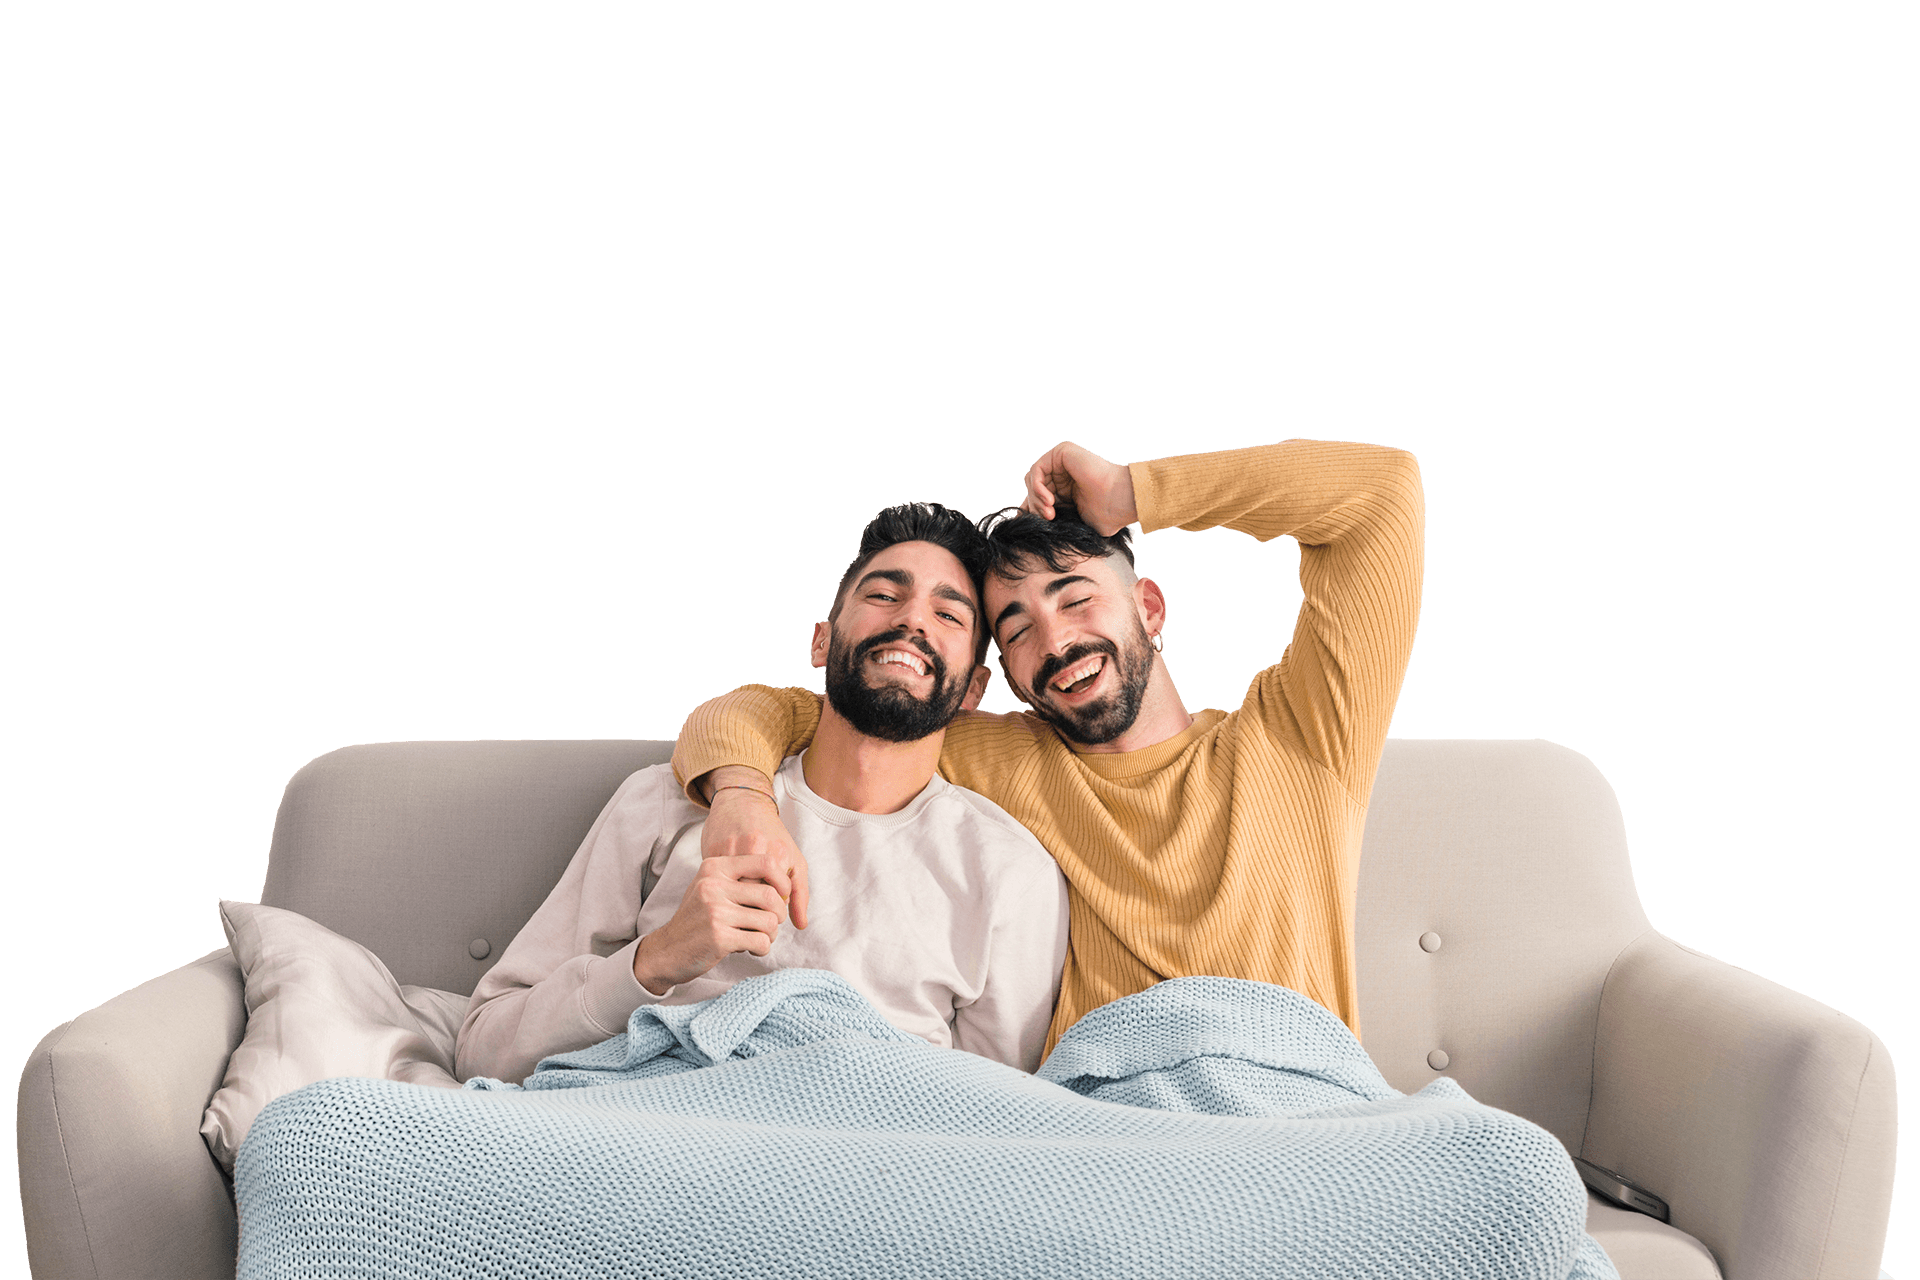
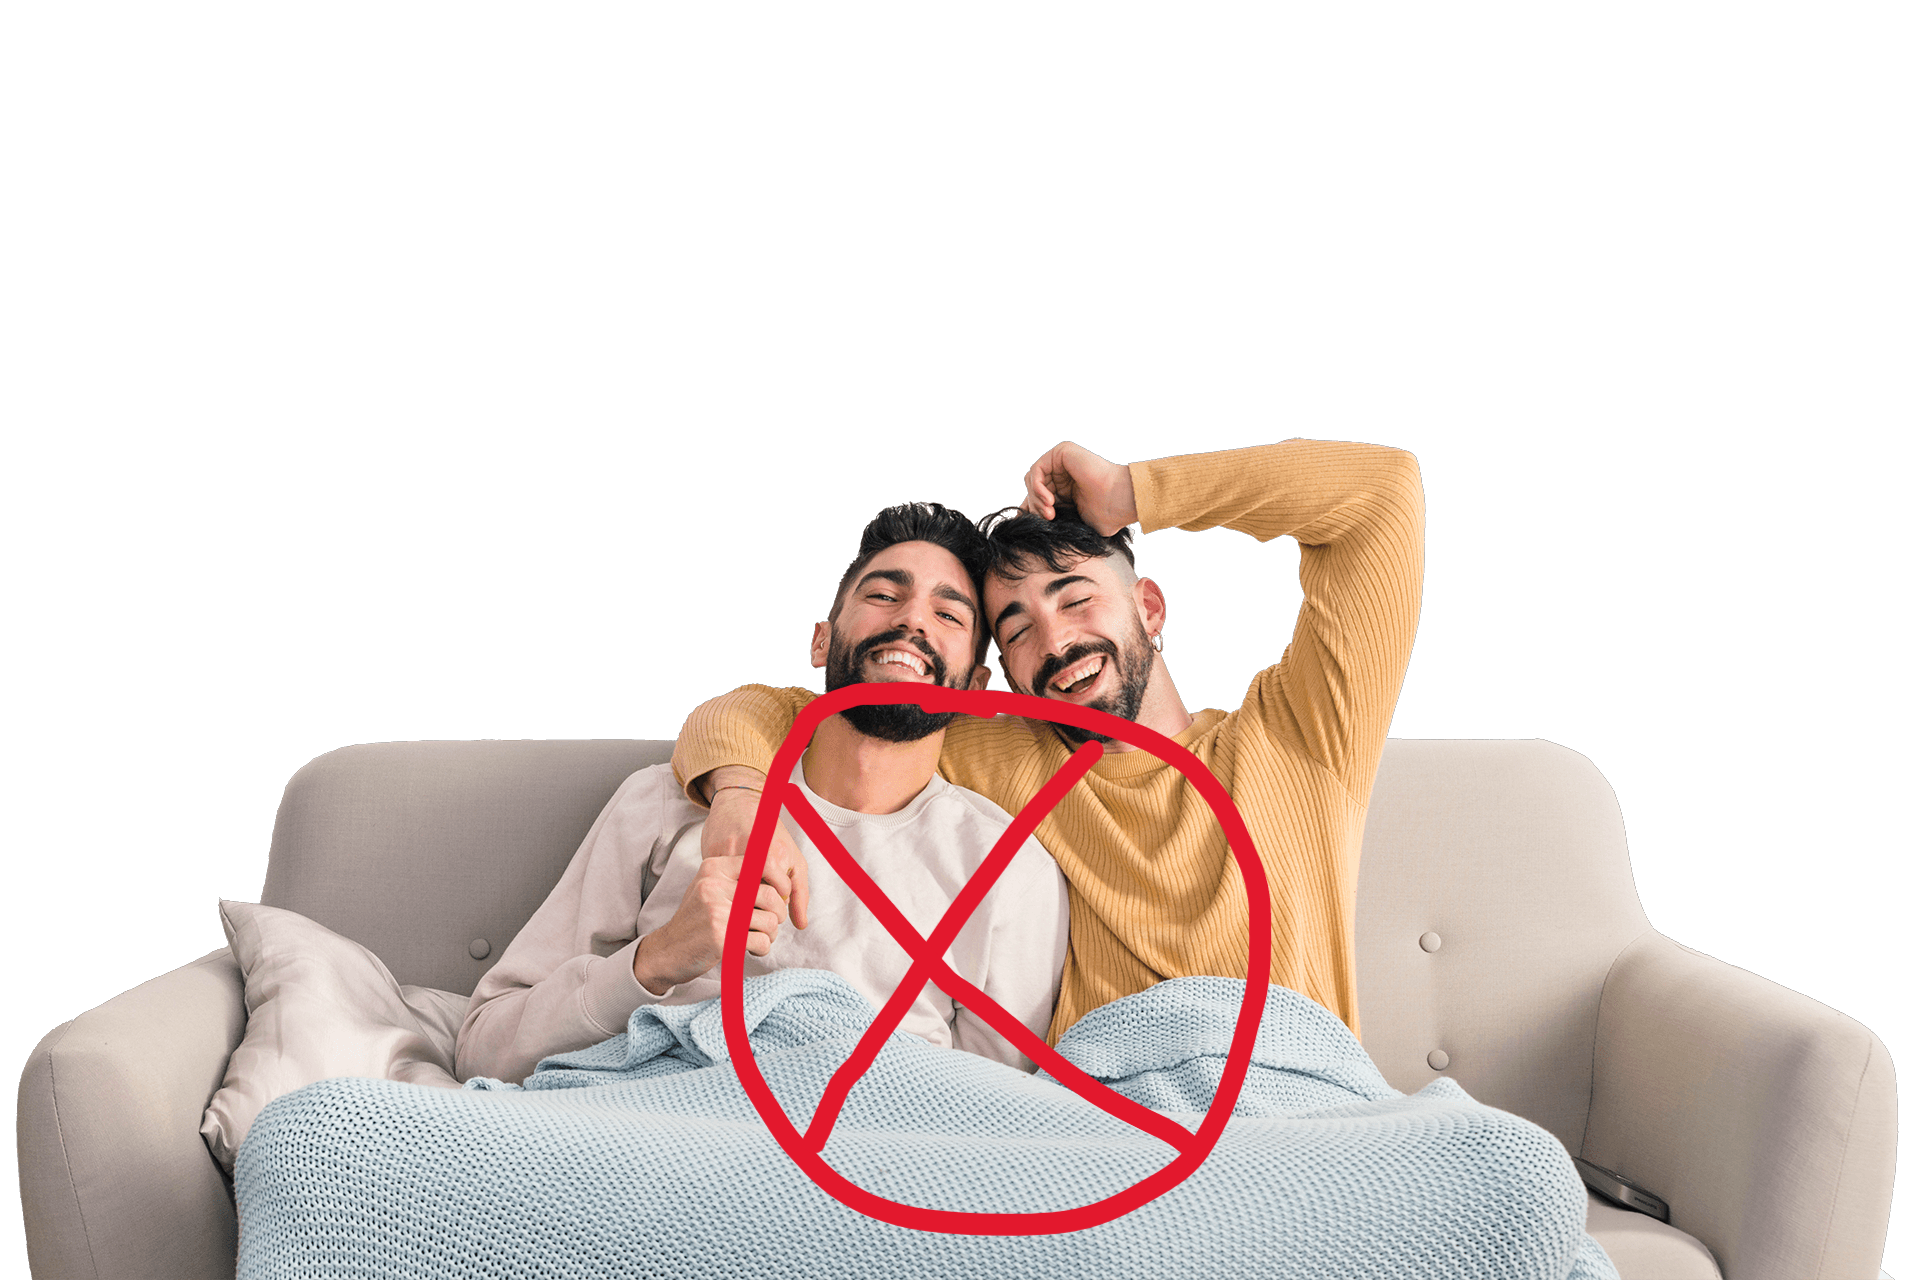
update

Changed region(s): [[0.375, 0.5312, 0.6875, 0.9688], [0.5312, 0.8125, 0.5625, 0.8438]]

diff --git a/index.html b/index.html
@@ -7,7 +7,7 @@
   <meta name="viewport" content="width=device-width, initial-scale=1, viewport-fit=cover">
   <meta name="theme-color" content="#595f69" id="themeColor">
   <meta name="apple-mobile-web-app-status-bar-style" content="black-translucent">
-  <title>OKAY.GAY 偶客</title>
+  <title>KILL GAY</title>
   <style>
     html,body {
       margin: 0;height: 100%;
@@ -105,37 +105,28 @@
 </head>
 <body>
   <header>
-    <h1>OKAY.GAY 偶客</h1>
-    <p>Transmit value and culture</p>
+    <h1>KILL.GAY</h1>
+    <p>杀基佬，扬正气，树新风</p>
   </header>
   <section>
     <h2>Values</h2>
     <article>
-      <h3>尊重</h3>
-      <p>更好的总在后面。即使此刻的对话隔着屏幕，我依然坚持每个人都应该被公平地真诚地对待。</p>
+      <h3>艾滋病</h3>
+      <p>男男同性恋（MSM）人士感染HIV病毒的概率要高于常人 19 倍。</p>
     </article>
     <article>
-      <h3>决心</h3>
-      <p>美好的生活取决于对生活的决心，我们可以完成自己想做的每一件事！</p>
+      <h3>性滥交</h3>
+      <p>部分同性恋者的性滥交行为败坏了社会风尚，也是艾滋病传播的高危群体。</p>
     </article>
     <article>
-      <h3>责任</h3>
-      <p>无论结果好坏，我们都要勇于承担！</p>
+      <h3>畸形婚姻</h3>
+      <p>据不完全统计，中国存在1800万的同妻，这些女性不仅要承受婚姻生活中的冷暴力，更要面临感染艾滋病的高风险。</p>
     </article>
     <article>
-      <h3>个性</h3>
-      <p>为这世上存在的所有文化、种族欢呼吧，我们需要相互学习互相依存！</p>
+      <h3>腐癌文化</h3>
+      <p>对同性恋的过度宣扬而出现的腐癌文化严重影响了青少年的身心健康，模糊了青少年的性别认知。</p>
     </article>
   </section>
   <b></b>
-<script>
-var _hmt = _hmt || [];
-(function() {
-  var hm = document.createElement("script");
-  hm.src = "https://hm.baidu.com/hm.js?40ae84b58573d7977d0f64e233961b2c";
-  var s = document.getElementsByTagName("script")[0]; 
-  s.parentNode.insertBefore(hm, s);
-})();
-</script>
 </body>
 </html>
